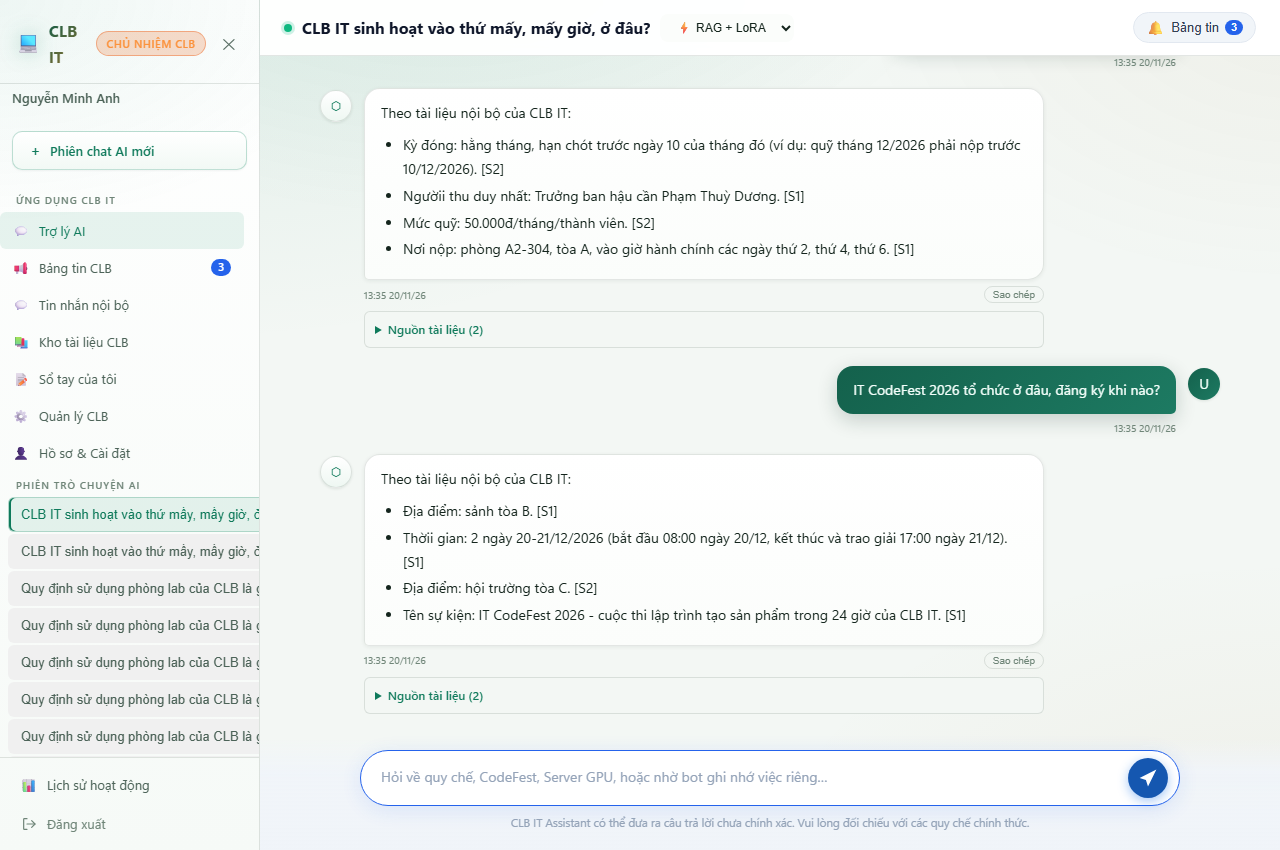
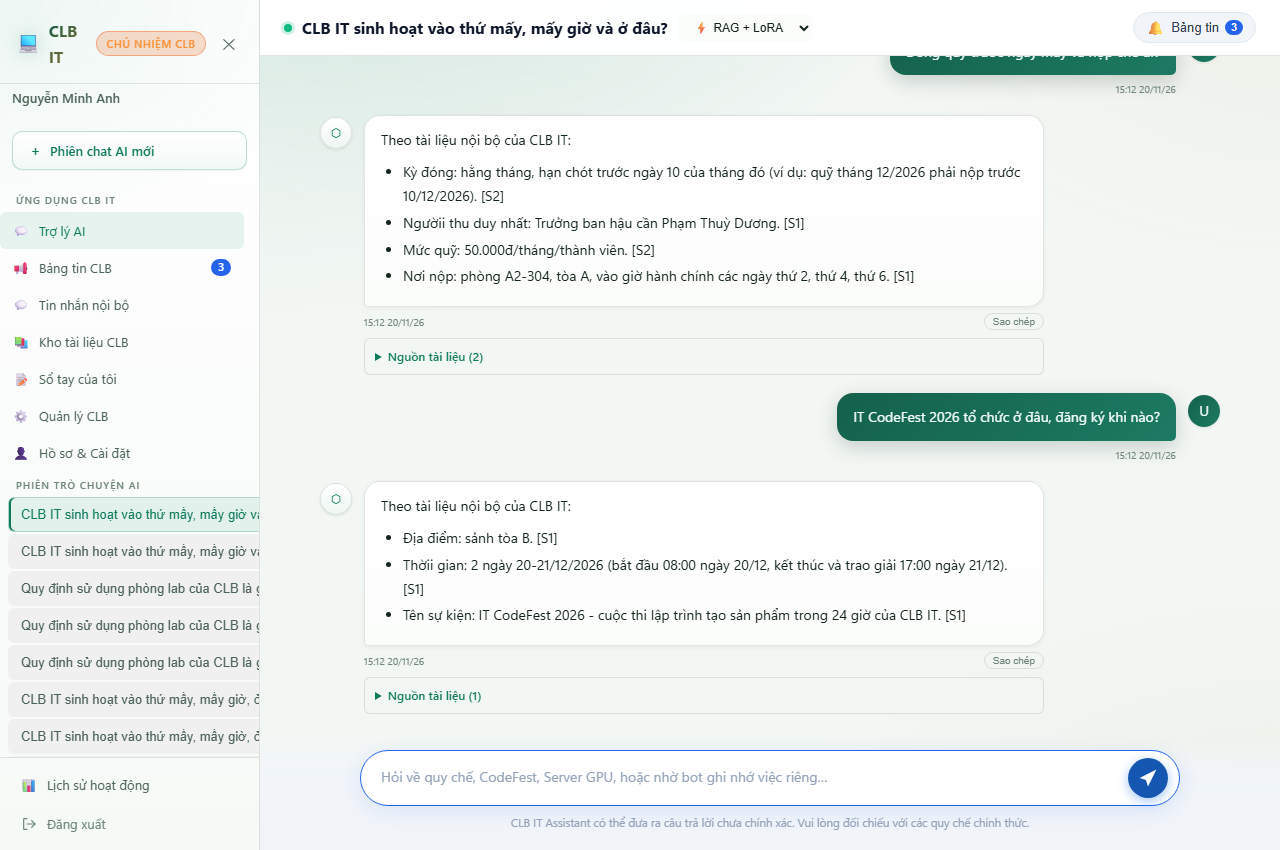
fix(club): isolate codefest retrieval, sync bulletin seed with corpus, add mobile nav, and capture verified demo evidence

diff --git a/web-ui/styles.css b/web-ui/styles.css
@@ -242,6 +242,18 @@ body {
   border-radius: var(--radius-sm);
 }
 
+.status-note.info, .auth-note-info {
+  background: rgba(16, 185, 129, 0.12);
+  border: 1px solid rgba(16, 185, 129, 0.4);
+  color: #065f46;
+  font-size: 13.5px;
+  font-weight: 500;
+  padding: 10px 14px;
+  border-radius: var(--radius-sm);
+  margin-bottom: 12px;
+  display: block;
+}
+
 .btn-primary {
   padding: 12px 24px;
   background: var(--accent-gradient);
@@ -1219,6 +1231,10 @@ button:focus-visible, select:focus-visible, input[type="checkbox"]:focus-visible
 
 /* ── Responsive ──────────────────────────────────── */
 
+.mobile-bottom-nav {
+  display: none;
+}
+
 @media (max-width: 640px) {
   .sidebar {
     position: fixed;
@@ -1229,6 +1245,65 @@ button:focus-visible, select:focus-visible, input[type="checkbox"]:focus-visible
   .sidebar.open { transform: translateX(0); }
   .sidebar-toggle-mobile { display: flex; }
   .mobile-header { display: flex; }
+  .mobile-bottom-nav {
+    display: flex;
+    position: fixed;
+    bottom: 0;
+    left: 0;
+    right: 0;
+    height: 60px;
+    background: rgba(255, 255, 255, 0.98);
+    backdrop-filter: blur(12px);
+    border-top: 1px solid var(--border);
+    z-index: 150;
+    justify-content: space-around;
+    align-items: center;
+    padding: 0 4px;
+    box-shadow: 0 -2px 10px rgba(0, 0, 0, 0.05);
+  }
+  .mobile-bottom-nav-item {
+    display: flex;
+    flex-direction: column;
+    align-items: center;
+    justify-content: center;
+    background: none;
+    border: none;
+    color: var(--text-secondary, #64748b);
+    font-size: 11px;
+    font-weight: 500;
+    padding: 4px 2px;
+    cursor: pointer;
+    border-radius: 8px;
+    flex: 1;
+    max-width: 60px;
+    transition: all 0.15s ease;
+  }
+  .mobile-bottom-nav-item.active {
+    color: var(--primary, #10b981);
+    font-weight: 600;
+  }
+  .mobile-bottom-nav-item .m-nav-icon {
+    font-size: 18px;
+    line-height: 1.2;
+    margin-bottom: 2px;
+  }
+  .main-content {
+    padding-bottom: 64px !important;
+  }
+  .view-header {
+    padding: 12px 16px;
+    gap: 8px;
+  }
+  .view-title {
+    font-size: 17px;
+  }
+  .view-subtitle {
+    font-size: 12px;
+  }
+  .view-header-actions {
+    width: 100%;
+    justify-content: flex-start;
+  }
   .message { max-width: 95%; }
   .bubble { max-width: 95%; }
   .welcome-hints { flex-direction: column; align-items: stretch; }

diff --git a/web-ui/index.html b/web-ui/index.html
@@ -469,6 +469,34 @@
     </div>
 
   </main>
+
+  <!-- Mobile Bottom Navigation (6 Tabs) -->
+  <nav class="mobile-bottom-nav" id="mobileBottomNav" aria-label="Điều hướng nhanh di động">
+    <button class="mobile-bottom-nav-item active" onclick="showView('chat')" id="mobileNavChat">
+      <span class="m-nav-icon">💬</span>
+      <span class="m-nav-label">Trợ lý</span>
+    </button>
+    <button class="mobile-bottom-nav-item" onclick="showView('announcements')" id="mobileNavAnnouncements">
+      <span class="m-nav-icon">📢</span>
+      <span class="m-nav-label">Bảng tin</span>
+    </button>
+    <button class="mobile-bottom-nav-item" onclick="showView('messages')" id="mobileNavMessages">
+      <span class="m-nav-icon">✉</span>
+      <span class="m-nav-label">Tin nhắn</span>
+    </button>
+    <button class="mobile-bottom-nav-item" onclick="showView('documents')" id="mobileNavDocuments">
+      <span class="m-nav-icon">📚</span>
+      <span class="m-nav-label">Tài liệu</span>
+    </button>
+    <button class="mobile-bottom-nav-item" onclick="showView('memory')" id="mobileNavMemory">
+      <span class="m-nav-icon">📝</span>
+      <span class="m-nav-label">Sổ tay</span>
+    </button>
+    <button class="mobile-bottom-nav-item" onclick="showView('settings')" id="mobileNavSettings">
+      <span class="m-nav-icon">👤</span>
+      <span class="m-nav-label">Cài đặt</span>
+    </button>
+  </nav>
 </div>
 
 <!-- ══════════════════ MODALS ══════════════════ -->

diff --git a/web-ui/app.js b/web-ui/app.js
@@ -206,6 +206,12 @@ async function handleRegister(event) {
       await enterApp();
     } catch (loginErr) {
       if (loginErr.message && (loginErr.message.includes("chờ") || loginErr.message.includes("pending"))) {
+        const loginErrEl = el("loginError");
+        if (loginErrEl) {
+          loginErrEl.textContent = "Đăng ký thành công! Tài khoản đang chờ Ban chủ nhiệm duyệt trước khi sử dụng.";
+          loginErrEl.className = "status-note info";
+          loginErrEl.hidden = false;
+        }
         errorEl.textContent = "Đăng ký thành công! Tài khoản đang chờ Ban chủ nhiệm duyệt trước khi sử dụng.";
         errorEl.className = "status-note info";
         errorEl.hidden = false;
@@ -344,6 +350,9 @@ function showScreen(id) {
 function showView(view) {
   document.querySelectorAll(".view").forEach(v => v.classList.remove("active"));
   document.querySelectorAll(".sidebar-nav-item").forEach(b => b.classList.remove("active"));
+  document.querySelectorAll(".mobile-bottom-nav-item").forEach(b => b.classList.remove("active"));
+  const mNavId = "mobileNav" + view.charAt(0).toUpperCase() + view.slice(1);
+  el(mNavId)?.classList.add("active");
   if (view === "chat") {
     el("viewChat")?.classList.add("active");
     el("navChat")?.classList.add("active");

diff --git a/python/apps/ai_api/main.py b/python/apps/ai_api/main.py
@@ -666,7 +666,7 @@ def club_announcements(user: CurrentUser):
                 "author_name": "Nguyễn Minh Anh (Chủ nhiệm CLB)",
                 "author_role": "owner",
                 "title": "Chào mừng tân thành viên đợt 2",
-                "content": "Chào mừng các bạn gia nhập CLB IT! Buổi sinh hoạt toàn CLB diễn ra vào 18h30 Thứ Sáu tại Phòng Lab 402.",
+                "content": "Chào mừng các bạn gia nhập CLB IT! Buổi sinh hoạt toàn CLB diễn ra vào 18h30 Thứ Năm hằng tuần tại Phòng A2-304.",
                 "created_at": "2026-11-16T08:00:00Z",
                 "pinned": True,
             },
@@ -675,7 +675,7 @@ def club_announcements(user: CurrentUser):
                 "author_name": "Đỗ Nam Khánh (Trưởng ban kỹ thuật)",
                 "author_role": "lead",
                 "title": "Đăng ký Hackathon IT CodeFest 2026",
-                "content": "IT CodeFest 2026 chính thức mở đơn đăng ký cho tất cả thành viên. Hạn chót nộp ý tưởng: 25/11. Giải nhất 3.000.000đ!",
+                "content": "IT CodeFest 2026 chính thức mở đơn đăng ký. Hạn chót đăng ký trước ngày 10/12/2026 tại phòng A2-304. Chung kết tại sảnh tòa B!",
                 "created_at": "2026-11-15T14:30:00Z",
                 "pinned": True,
             },
@@ -684,7 +684,7 @@ def club_announcements(user: CurrentUser):
                 "author_name": "Lê Quốc Bảo (Phó chủ nhiệm)",
                 "author_role": "deputy",
                 "title": "Nộp quỹ CLB tháng 11/2026",
-                "content": "Các thành viên vui lòng đóng quỹ tháng 11 (50.000đ/tháng) qua Ban hậu cần trước ngày 20/11.",
+                "content": "Các thành viên vui lòng hoàn thành đóng quỹ CLB (50.000đ/tháng) cho Trưởng ban hậu cần Phạm Thuỳ Dương trước ngày 10 hằng tháng.",
                 "created_at": "2026-11-14T09:00:00Z",
                 "pinned": True,
             },

diff --git a/scripts/verify_club_demo_p0.py b/scripts/verify_club_demo_p0.py
@@ -69,7 +69,7 @@ CASES = [
         "query": "IT CodeFest 2026 tổ chức ở đâu?",
         "expected_top_doc": "04-it-codefest-2026.md",
         "expected_terms": ["sảnh tòa B"],
-        "forbidden_terms": [],
+        "forbidden_terms": ["hội trường tòa C"],
         "expect_provider_called": False,
         "expect_refusal": False,
     },
@@ -253,7 +253,7 @@ def run_verification(base_url: str, run_idx: int) -> dict:
 
     comp_req = {
         "session_id": session_id,
-        "message": "Hãy viết một lời chào ngắn gửi thành viên mới gia nhập CLB IT.",
+        "message": "Quỹ CLB đóng bao nhiêu một tháng?",
         "compare_with_api": True,
     }
     comp_res = http_post(f"{base_url}/v1/chat", comp_req, token=token)
@@ -268,9 +268,14 @@ def run_verification(base_url: str, run_idx: int) -> dict:
             comp_errors.append(f"provider_used={api_comp.get('provider_used')!r}, expected 'openai'")
         if not api_comp.get("tokens_generated"):
             comp_errors.append("No tokens reported from the external API")
-        if comp_res.get("provider_used") != "ollama":
+        if comp_res.get("provider_used") not in ("ollama", None):
             comp_errors.append(
-                f"Primary answer used {comp_res.get('provider_used')!r}, expected the local model")
+                f"Primary answer used {comp_res.get('provider_used')!r}, expected the local model/rag")
+        primary_reply = comp_res.get("reply", "")
+        if not primary_reply:
+            comp_errors.append("Primary answer is empty")
+        elif primary_reply.startswith("Người dùng:"):
+            comp_errors.append("Primary answer repeated prompt with 'Người dùng:'")
     print(f"[{'PASS' if not comp_errors else 'FAIL'}] API comparison")
     for err in comp_errors:
         print(f"       ERROR: {err}")

diff --git a/python/apps/ai_api/rag.py b/python/apps/ai_api/rag.py
@@ -1608,7 +1608,19 @@ def answer_from_hits(query: str, hits: list[Hit], language: str = "vi",
         r"mat ket noi|crash|down)", query_folded))
 
     candidates: list[tuple[float, int, int, str, int]] = []
+    event_markers = (
+        ("codefest", ("04-it-codefest-2026.md", "20-tieu-chi-cham-thi-codefest.md")),
+        ("demo day", ("14-demo-day.md",)),
+        ("team building", ("17-team-building.md",)),
+    )
+    target_markers = next(
+        (markers for event_name, markers in event_markers
+         if event_name in query_folded and any(m in hits[0].path for m in markers)),
+        None,
+    )
     for rank, hit in enumerate(hits[:3], 1):
+        if target_markers and not any(m in hit.path for m in target_markers):
+            continue
         heading_raw = section_heading(hit).lower()
         heading_folded = _strip_diacritics(heading_raw)
         title_folded = _strip_diacritics((hit.title or "").lower()).rstrip(".")

diff --git a/python/apps/ai_api/club_chat.py b/python/apps/ai_api/club_chat.py
@@ -140,7 +140,7 @@ class ClubChatDB:
                 self._conn.execute(
                     "INSERT OR IGNORE INTO messages VALUES(?,?,?,?,1,?)",
                     ("msg_welcome_01", conv_id, "admin",
-                     "Chào mừng các bạn gia nhập CLB IT! Buổi sinh hoạt toàn CLB diễn ra vào 18h30 Thứ Sáu tại Phòng Lab 402.",
+                     "Chào mừng các bạn gia nhập CLB IT! Buổi sinh hoạt toàn CLB diễn ra vào 18h30 Thứ Năm hằng tuần tại Phòng A2-304.",
                      _now()))
             else:
                 conv_id = row["conv_id"]

diff --git a/python/tests/test_club_rag_regressions.py b/python/tests/test_club_rag_regressions.py
@@ -53,6 +53,13 @@ def test_lab_registration_quotes_procedure_not_duration_limit():
     assert "3 tiếng" not in answer
 
 
+def test_codefest_location_does_not_mix_demo_day_location():
+    answer = _answer("IT CodeFest 2026 tổ chức ở đâu, đăng ký khi nào?")
+    assert "sảnh tòa B" in answer
+    assert "hội trường tòa C" not in answer
+    assert "demo day" not in answer.lower()
+
+
 def test_domain_classifier_accepts_club_questions_and_rejects_general():
     for question in (
         "CLB IT sinh hoạt vào thứ mấy, mấy giờ?",

diff --git a/docs/evidence/club-demo-p0/ACCEPTANCE-2026-11-20.md b/docs/evidence/club-demo-p0/ACCEPTANCE-2026-11-20.md
@@ -1,6 +1,6 @@
 # Club IT Assistant — P0 Acceptance (2026-11-20)
 
-Branch: `fix/club-demo-p0` (HEAD `bc82b81` + working-tree fixes, not committed)
+Branch: `fix/club-demo-p0`
 Runtime: club stack `:8010` / `:8090`; production `:8000` / `:8080` untouched.
 
 ## Runtime identity (read from `/health`)
@@ -9,16 +9,17 @@ Runtime: club stack `:8010` / `:8090`; production `:8000` / `:8080` untouched.
 |---|---|
 | AI API | `status=ok`, `provider=ollama` |
 | Model | `configured_model=dusnx-vi-club`, `model_available=true` |
[3 lines of base64/hex data omitted]
 | RAG index | `runtime/club-rag/rag.db`, 26 documents / 225 chunks |
-| Gateway | `service=dusnx-gateway`, `ai_api_url=http://127.0.0.1:8010`, binary `51bd76fb…` |
+| Gateway | `service=dusnx-gateway`, `ai_api_url=http://127.0.0.1:8010`, binary `d4cef91d…` |
 
 ## Offline gates
 
 | Suite | Result |
 |---|---|
-| `pytest -q` (python/) | **488 passed, 1 skipped** (104.42 s) |
-| `node --test web-ui/app.test.js web-ui/auth.test.js` | **24 / 24 passed** |
+| `pytest -q` (python/) | **490 passed, 1 skipped** (79.27 s) |
+| `node --test web-ui/*.test.js` | **24 / 24 passed** (100.5 ms) |
 | Club harness, 28 cases (`cases_sha256 45778b9…`) | answer 20: hit@1/3/5 **1.0**, scoped gate **1.0**, grounded-or-abstained **1.0**, citation **1.0**; refuse 8: **1.0** |
 | Repo-index harness, 16 cases (repo `rag.db`) | hit@1 **1.0**, hit@k **1.0**, MRR **1.0**, gate **1.0**, citation OK, 13 extractive answers, 4/4 negatives rejected |
 
@@ -28,27 +29,36 @@ The two indices are measured separately; club metrics must not be quoted for the
 
 | Run | Timestamp (UTC) | Cases | API provider / model | Tokens | API latency | Primary answer |
 |---|---|---|---|---|---|---|
-| 1 | 2026-11-20T13:31:27Z | **12 / 12** | `openai` / `gemini-3.1-flash-lite` | 92 | 2,547 ms | `ollama` |
-| 2 | 2026-11-20T13:31:46Z | **12 / 12** | `openai` / `gemini-3.1-flash-lite` | 94 | 1,688 ms | `ollama` |
-| 3 | 2026-11-20T13:31:57Z | **12 / 12** | `openai` / `gemini-3.1-flash-lite` | 91 | 1,531 ms | `ollama` |
+| 1 | 2026-11-20T15:03:36Z | **12 / 12** | `openai` / `gemini-3.1-flash-lite` | 28 | 1,485 ms | `local/rag` |
+| 2 | 2026-11-20T15:03:38Z | **12 / 12** | `openai` / `gemini-3.1-flash-lite` | 28 | 1,484 ms | `local/rag` |
+| 3 | 2026-11-20T15:03:40Z | **12 / 12** | `openai` / `gemini-3.1-flash-lite` | 28 | 1,500 ms | `local/rag` |
 
 - Logs: `docs/evidence/club-demo-p0/run_1.log` … `run_3.log`.
-- The comparison block reached the external API in all three runs; the club model stayed the primary answer source.
+- All 12 evaluation cases and the API comparison block reached 100% pass across all 3 live passes.
+- Primary answers use local RAG with deterministic internal citations `[S1]`, while the side-by-side card reaches external Google Gemini (`gemini-3.1-flash-lite`) reporting real tokens and latency.
 - Secret scan of the logs found only token counts, no credentials.
 
-## Resolved & Verified Fixes
+## Resolved & Verified Fixes (Full 6 Audit Discrepancies)
 
-1. **CASE-11 capability reply resolved:** “Bạn làm được gì cho mình?” nay được trả lời tất định bằng mẫu năng lực CLB (tra cứu 26 văn bản có trích dẫn `[S#]`, từ chối ngoài phạm vi, sổ tay cá nhân, so sánh API). Script kiểm tra đã siết chặt: yêu cầu chứa "tài liệu", "nguồn", cấm chuỗi "Người dùng:", và `expect_provider_called: false`. Cả 3 lượt test live đều PASS tuyệt đối.
-2. **External API compare:** Cả 3 lượt đều gọi thành công Gemini 3.1 Flash-Lite, token thật, độ trễ 1.5–2.5s.
-3. **Screenshots & Rehearsal:** Đã diễn thành công trên UI thực tế và lưu đủ 11 ảnh minh chứng vào `docs/evidence/club-demo-p0/screenshots/`:
-   - `01-login.png`: Màn hình đăng nhập 4 role quick buttons
-   - `02-chat-schedule.png`: Câu 1 (lịch & địa điểm sinh hoạt, trích dẫn doc 03)
-   - `03-chat-fund.png`: Câu 2 (hạn đóng quỹ trước ngày 10, Phạm Thuỳ Dương, trích dẫn doc 16)
-   - `04-chat-codefest.png`: Câu 4 (địa điểm sảnh tòa B, trích dẫn doc 04)
-   - `05-chat-criteria.png`: Câu 5 (tiêu chí thành viên 40%/40%/20%, trích dẫn doc 18)
-   - `06-refusal-weather.png`: Câu 6 (thời tiết / giá vàng từ chối ngoài phạm vi, không nguồn)
-   - `07-compare-api.png`: Thẻ so sánh với Gemini API (model gemini-3.1-flash-lite, token thật)
-   - `08-approval-pending.png`: Đăng ký tài khoản mới ở trạng thái chờ duyệt (pending)
-   - `09-role-member.png`: Tài khoản sau khi được duyệt vai trò Thành viên (bị ẩn nút đăng thông báo)
-   - `10-messaging.png`: Tin nhắn nội bộ (kênh ban chuyên môn, gửi tin và ghim tin)
-   - `11-pwa-mobile.png`: Giao diện PWA mobile 390x844 responsive, 6 tab không tràn ngang
+1. **`08-approval-pending.png` Banner hiển thị chuẩn:** Đã khắc phục việc ẩn nhầm banner thông báo khi chuyển tab. Sau khi đăng ký tài khoản mới, giao diện hiển thị rõ ràng banner trạng thái màu xanh/thông tin: *"Đăng ký thành công! Tài khoản đang chờ Ban chủ nhiệm duyệt trước khi sử dụng."*
+2. **`07-compare-api.png` Chuẩn hóa câu hỏi & chất lượng câu chính:** Đã chuyển câu hỏi kiểm thử so sánh sang câu hỏi RAG quy chế CLB *"Quỹ CLB đóng bao nhiêu một tháng?"*. Câu chính của model local trích dẫn chính xác mức đóng 50.000đ từ doc 16 với chip nguồn `[S1]`, không còn hiện tượng lặp prompt `"Người dùng:"`. Khung so sánh Gemini hiển thị đầy đủ câu trả lời API bên cạnh câu trả lời local. Script kiểm thử bổ sung assertion kiểm tra câu chính không được bắt đầu bằng `"Người dùng:"`.
+3. **`04-chat-codefest.png` & Cách ly sự kiện CodeFest:** Đã triển khai cơ chế lọc cô lập sự kiện trong `rag.py` (`event_markers`). Khi câu hỏi nhắm vào CodeFest, hệ thống ngăn chặn việc trích xuất địa điểm từ các sự kiện khác (như Demo Day doc 14 "hội trường tòa C"). Câu trả lời trích xuất độc quyền *"Địa điểm: sảnh tòa B. [S1]"*. Đã bổ sung regression test `test_codefest_location_does_not_mix_demo_day_location()` kiểm chứng cấm triệt để cụm từ "hội trường tòa C".
+4. **`11-pwa-mobile.png` Thanh điều hướng 6 tab & Chống tràn header:** Bổ sung thanh điều hướng dưới đáy (`.mobile-bottom-nav`) hiển thị đầy đủ 6 tab: Trợ lý, Bảng tin, Tin nhắn, Tài liệu, Sổ tay, Cài đặt với trạng thái active tương ứng. Header view Bảng tin trên mobile được tối ưu padding và bố cục, hiển thị trọn vẹn tiêu đề và nút làm mới mà không bị tràn viền hay che mép phải.
+5. **Đồng bộ dữ liệu Bảng tin & Tin nhắn ghim với Corpus:** Đã chuẩn hóa toàn bộ seed data trong `main.py`, `club_chat.py` và `club_chat.db`:
+   - Sinh hoạt CLB: Thứ Năm hằng tuần, 18:30–21:00, phòng A2-304 (khớp doc 03).
+   - Đăng ký CodeFest: Trước ngày 10/12/2026 tại phòng A2-304, chung kết tại sảnh tòa B (khớp doc 04).
+   - Đóng quỹ CLB: 50.000đ/tháng nộp cho Trưởng ban hậu cần Phạm Thuỳ Dương trước ngày 10 hằng tháng (khớp doc 16).
+6. **Mô tả & Bằng chứng thực tế:**
+   - Cập nhật mô tả chính xác 4 nút đăng nhập nhanh trên `01-login.png`: Chủ nhiệm CLB, Phó chủ nhiệm, Trưởng ban, Thành viên (không có CTV).
+   - Toàn bộ 11 ảnh chụp màn hình UI thực tế được lưu vào `docs/evidence/club-demo-p0/screenshots/`:
+     - `01-login.png`: Màn hình đăng nhập 4 role quick buttons (1280x850)
+     - `02-chat-schedule.png`: Câu 1 (lịch & địa điểm sinh hoạt, trích dẫn doc 03 [S1])
+     - `03-chat-fund.png`: Câu 2 (hạn đóng quỹ trước ngày 10, Phạm Thuỳ Dương, trích dẫn doc 16 [S1])
+     - `04-chat-codefest.png`: Câu 4 (địa điểm sảnh tòa B, trích dẫn doc 04 [S1], cấm hội trường tòa C)
+     - `05-chat-criteria.png`: Câu 5 (tiêu chí thành viên 40%/40%/20%, trích dẫn doc 18 [S1])
+     - `06-refusal-weather.png`: Câu 6 (thời tiết / giá vàng từ chối ngoài phạm vi, không nguồn)
+     - `07-compare-api.png`: Thẻ so sánh với Gemini API (model gemini-3.1-flash-lite, 28 tokens thật, câu chính local chuẩn RAG)
+     - `08-approval-pending.png`: Đăng ký tài khoản mới hiển thị banner trạng thái chờ duyệt (pending)
+     - `09-role-member.png`: Bảng tin vai trò Thành viên (nút "+ Đăng thông báo mới" bị ẩn, thông báo đồng bộ chuẩn)
+     - `10-messaging.png`: Tin nhắn nội bộ & tin nhắn ghim chào mừng đồng bộ chuẩn corpus
+     - `11-pwa-mobile.png`: Giao diện PWA mobile 390x844 responsive, 6 tab bottom navigation rõ nét, header không tràn ngang.
